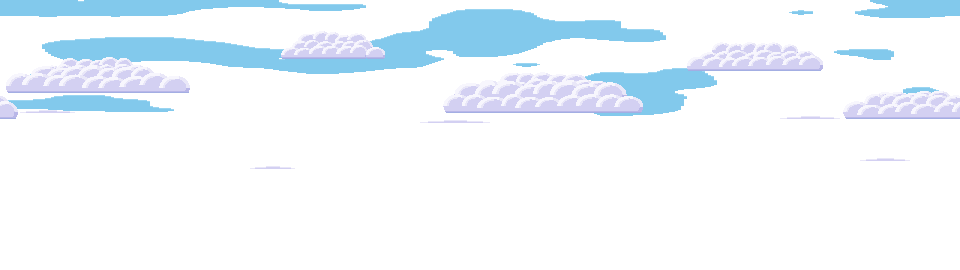
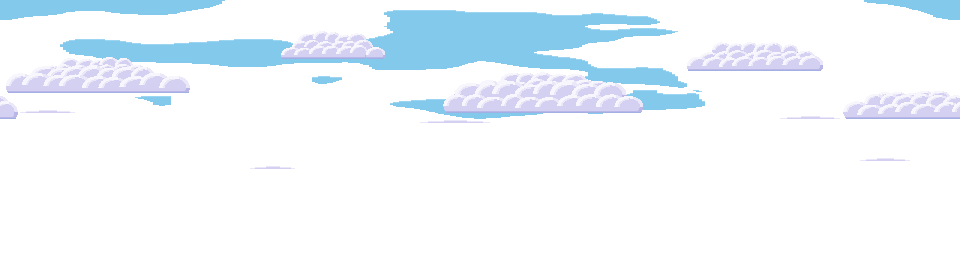
Fondos de los 4 niveles exteriores y componente ParallaxBackground
- public/assets/backgrounds/{street,park,market,construction} + README.txt
  (street actualizado: sky con sol, clouds, far y mid nuevos).
- El parallax sale de GameScene a src/systems/ParallaxBackground.js, con el
  mismo comportamiento; recibe el nombre de la carpeta del fondo.
- Campo background en los datos de sala (testRoom: street).
- F2 (debug) cambia el fondo en ciclo; el overlay de F1 muestra cual esta activo.

diff --git a/src/scenes/GameScene.js b/src/scenes/GameScene.js
@@ -1,5 +1,5 @@
 import * as Phaser from 'phaser';
-import { GAME_W, GAME_H, PLAYER, CAMERA, PARALLAX, DEPTH } from '../config/constants.js';
+import { GAME_W, GAME_H, PLAYER, CAMERA } from '../config/constants.js';
 import { CHARACTERS } from '../data/characters.js';
 import { ROOMS } from '../data/rooms/index.js';
 import { Player } from '../entities/Player.js';
@@ -12,6 +12,7 @@ import { DebugOverlay } from '../systems/DebugOverlay.js';
 import { PlayTimer } from '../systems/PlayTimer.js';
 import { RoomFlags } from '../systems/RoomFlags.js';
 import { buildRoom, tileToFeet, findGroundY } from '../systems/RoomBuilder.js';
+import { ParallaxBackground } from '../systems/ParallaxBackground.js';
 
 // Escena de juego genérica: arma la habitación indicada por roomId a partir de sus datos.
 export class GameScene extends Phaser.Scene {
@@ -30,8 +31,8 @@ export class GameScene extends Phaser.Scene {
     const room = this.room;
     this.controls = new Controls(this);
 
-    // --- Fondo con parallax ---
-    this.createParallax();
+    // --- Fondo con parallax (el de la sala; 'street' si no define uno) ---
+    this.background = new ParallaxBackground(this, room.background ?? 'street');
 
     // --- Habitación ---
     const { solids, width, height } = buildRoom(this, room);
@@ -91,82 +92,10 @@ export class GameScene extends Phaser.Scene {
 
     // --- Cámara ---
     this.setupCamera(width, height);
-    this.anchorParallax(room);
+    this.background.anchor(findGroundY(room));
 
     // --- Debug (F1) ---
     this.debug = new DebugOverlay(this, this.player);
-  }
-
-  createParallax() {
-    // Cada capa es un TileSprite de ancho de pantalla y alto de su imagen, fijo a la cámara (scrollFactor 0).
-    // El "movimiento" no es del objeto sino de su textura: tilePositionX desplaza el patrón,
-    // y como la textura se repite, la capa nunca se acaba aunque la sala sea más ancha que la imagen.
-    this.parallaxLayers = [];
-    PARALLAX.layers.forEach((layer, i) => {
-      // Si el PNG no cargó (p. ej. clon sin la carpeta media/), omitimos la capa en vez de
-      // dibujar la textura de "missing" de Phaser.
-      if (!this.textures.exists(layer.key)) return;
-      // Alto = alto de la imagen: así el TileSprite nunca repite en vertical (tilePositionY queda en 0)
-      // y la posición vertical se maneja solo con su y.
-      const imageH = this.textures.get(layer.key).getSourceImage().height;
-      const ts = this.add
-        .tileSprite(0, 0, GAME_W, imageH, layer.key)
-        .setOrigin(0, 0)
-        .setScrollFactor(0)
-        .setDepth(DEPTH.background + i);
-      this.parallaxLayers.push({ ...layer, ts, lastGap: 0 });
-    });
-
-    // ¿Por qué no en update()? Phaser calcula el scroll de la cámara (follow + lerp) en
-    // camera.preRender, DESPUÉS de update. Leer scrollX en update daría el valor del frame anterior
-    // y el fondo iría un frame atrasado respecto al mundo. FOLLOW_UPDATE se emite justo tras
-    // calcular el scroll y antes de dibujar, así que fondo y mundo usan el mismo valor.
-    const cam = this.cameras.main;
-    cam.on(Phaser.Cameras.Scene2D.Events.FOLLOW_UPDATE, this.updateParallax, this);
-    // La cámara principal se reutiliza entre reinicios de la escena: quitamos el listener al salir
-    // para no acumular uno por cada muerte.
-    this.events.once(Phaser.Scenes.Events.SHUTDOWN, () => {
-      cam.off(Phaser.Cameras.Scene2D.Events.FOLLOW_UPDATE, this.updateParallax, this);
-    });
-  }
-
-  // Referencia vertical del parallax, calculada con la geometría real de la sala (llamar tras setupCamera).
-  anchorParallax(room) {
-    const cam = this.cameras.main;
-    // scrollY máximo = cámara lo más abajo posible dentro de sus bounds.
-    this.parallaxMaxScrollY = cam.getBounds().bottom - cam.height;
-    // En esa posición, el suelo se ve en pantalla en groundY - maxScrollY. Queremos que la fila
-    // groundLine de la imagen caiga ahí, así que el borde superior de la capa va groundLine px más arriba.
-    // Ej. sala de prueba: suelo 384, maxScrollY 178 → suelo en pantalla 206 → capa en y = 206 - 256 = -50.
-    this.parallaxBaseY = findGroundY(room) - this.parallaxMaxScrollY - PARALLAX.groundLine;
-  }
-
-  updateParallax() {
-    const { scrollX, scrollY } = this.cameras.main;
-    // Δ = cuánto subió la cámara respecto a la referencia (≥ 0).
-    const rise = this.parallaxMaxScrollY - scrollY;
-    for (const layer of this.parallaxLayers) {
-      const { ts, factorX, factorY } = layer;
-      // Redondeo a pixel entero: con factores como 0.05 o 0.2 el desplazamiento sería fraccionario
-      // y el muestreo NEAREST alternaría entre dos filas/columnas de pixeles (temblor).
-      ts.tilePositionX = Math.round(scrollX * factorX);
-      // Vertical: movemos el TileSprite y no tilePositionY a propósito. tilePositionY repite la textura,
-      // así que si la capa bajara más allá de su borde aparecería la parte de arriba de la imagen debajo;
-      // moviendo y, lo que queda fuera de la imagen es simplemente transparente (y se nota si pasa).
-      ts.y = Math.round(this.parallaxBaseY + factorY * rise);
-
-      if (layer.checkBottom && this.debug?.enabled) this.checkParallaxBottom(layer);
-    }
-  }
-
-  // Debug: si el borde inferior de la capa queda por encima del de la pantalla, debajo se vería un hueco.
-  // Avisa solo cuando el faltante cambia (no en cada frame), y también cuando se cierra.
-  checkParallaxBottom(layer) {
-    const gap = Math.max(0, GAME_H - (layer.ts.y + layer.ts.height));
-    if (gap === layer.lastGap) return;
-    if (gap > 0) console.warn(`[Parallax] ${layer.key}: el borde inferior queda ${gap} px por encima de la pantalla`);
-    else console.info(`[Parallax] ${layer.key}: borde inferior cubierto otra vez`);
-    layer.lastGap = gap;
   }
 
   setupCamera(roomW, roomH) {
@@ -207,6 +136,11 @@ export class GameScene extends Phaser.Scene {
     PlayTimer.tick(this.registry, delta);
 
     if (this.controls.justDown('debug')) this.debug.toggle();
+    // F2 (debug): siguiente fondo. No se guarda: al morir o reiniciar vuelve el de la sala.
+    if (this.controls.justDown('cycleBackground')) {
+      this.background.cycle();
+      console.info(`[Parallax] fondo: ${this.background.name}`);
+    }
 
     // --- Interacción (tecla abajo) ---
     // Una sola consulta por frame: si hay diálogo abierto, la tecla avanza; si no, interactúa con lo más cercano.

diff --git a/src/systems/ParallaxBackground.js b/src/systems/ParallaxBackground.js
@@ -1,0 +1,126 @@
+import * as Phaser from 'phaser';
+import { GAME_W, GAME_H, PARALLAX, BACKGROUNDS, DEPTH } from '../config/constants.js';
+
+// Key de textura de una capa de un fondo, p. ej. bgKey('park', 'far') → 'bg-park-far'.
+// PreloadScene carga con estas keys y este componente las usa: es el único "contrato" entre ambos.
+export const bgKey = (background, layerId) => `bg-${background}-${layerId}`;
+
+// Fondo con parallax de varias capas, anclado al suelo de la sala.
+//
+// Uso:
+//   const bg = new ParallaxBackground(scene, 'street');
+//   ...configurar la cámara (bounds + startFollow)...
+//   bg.anchor(groundY);         // groundY = superficie del suelo de la sala, px de mundo
+//   bg.setBackground('park');   // cambia de fondo en caliente
+//
+// Cada capa es un TileSprite de ancho de pantalla y alto de su imagen, fijo a la cámara (scrollFactor 0):
+//   - Horizontal: se desplaza la textura (tilePositionX = scrollX · factorX). Como la textura se repite,
+//     la capa nunca se acaba aunque la sala sea más ancha que la imagen.
+//   - Vertical: se mueve la y del TileSprite (no tilePositionY, ver update()). Con la cámara lo más
+//     abajo posible, la fila groundLine de la imagen coincide con el suelo; si la cámara sube Δ px,
+//     la capa baja factorY · Δ px en pantalla.
+export class ParallaxBackground {
+  constructor(scene, background) {
+    this.scene = scene;
+    this.cam = scene.cameras.main;
+    this.layers = [];
+    // Hasta que se llame anchor() usamos una referencia neutra (capas pegadas arriba de la pantalla).
+    this.maxScrollY = 0;
+    this.baseY = 0;
+
+    this.setBackground(background);
+
+    // ¿Por qué no en update()? Phaser calcula el scroll de la cámara (follow + lerp) en
+    // camera.preRender, DESPUÉS de update. Leer scrollX en update daría el valor del frame anterior
+    // y el fondo iría un frame atrasado respecto al mundo. FOLLOW_UPDATE se emite justo tras
+    // calcular el scroll y antes de dibujar, así que fondo y mundo usan el mismo valor.
+    this.cam.on(Phaser.Cameras.Scene2D.Events.FOLLOW_UPDATE, this.update, this);
+    // La cámara principal se reutiliza entre reinicios de la escena: quitamos el listener al salir
+    // para no acumular uno por cada muerte.
+    scene.events.once(Phaser.Scenes.Events.SHUTDOWN, this.destroy, this);
+  }
+
+  // Crea (o reemplaza) las capas del fondo indicado. Si el nombre no existe, avisa y usa el primero.
+  setBackground(background) {
+    if (!BACKGROUNDS.includes(background)) {
+      console.warn(`[Parallax] fondo desconocido "${background}"; se usa "${BACKGROUNDS[0]}"`);
+      background = BACKGROUNDS[0];
+    }
+    this.name = background;
+
+    this.layers.forEach((l) => l.ts.destroy());
+    this.layers = [];
+
+    PARALLAX.layers.forEach((layer, i) => {
+      const key = bgKey(background, layer.id);
+      // Si el PNG no cargó, omitimos la capa en vez de dibujar la textura de "missing" de Phaser.
+      if (!this.scene.textures.exists(key)) return;
+      // Alto = alto de la imagen: así el TileSprite nunca repite en vertical (tilePositionY queda en 0)
+      // y la posición vertical se maneja solo con su y.
+      const imageH = this.scene.textures.get(key).getSourceImage().height;
+      const ts = this.scene.add
+        .tileSprite(0, 0, GAME_W, imageH, key)
+        .setOrigin(0, 0)
+        .setScrollFactor(0)
+        .setDepth(DEPTH.background + i);
+      this.layers.push({ ...layer, key, ts, lastGap: 0 });
+    });
+
+    // Posicionamos ya con el scroll actual, para que el fondo nuevo no se vea un frame mal ubicado.
+    this.update();
+    return this;
+  }
+
+  // Siguiente fondo de la lista, en ciclo (para la tecla de debug F2).
+  cycle() {
+    const i = BACKGROUNDS.indexOf(this.name);
+    return this.setBackground(BACKGROUNDS[(i + 1) % BACKGROUNDS.length]);
+  }
+
+  // Referencia vertical, calculada con la geometría real de la sala. Llamar después de setBounds de la cámara.
+  anchor(groundY) {
+    // scrollY máximo = cámara lo más abajo posible dentro de sus bounds.
+    this.maxScrollY = this.cam.getBounds().bottom - this.cam.height;
+    // En esa posición, el suelo se ve en pantalla en groundY - maxScrollY. Queremos que la fila
+    // groundLine de la imagen caiga ahí, así que el borde superior de la capa va groundLine px más arriba.
+    // Ej. sala de prueba: suelo 384, maxScrollY 178 → suelo en pantalla 206 → capa en y = 206 - 256 = -50.
+    this.baseY = groundY - this.maxScrollY - PARALLAX.groundLine;
+    this.update();
+    return this;
+  }
+
+  update() {
+    const { scrollX, scrollY } = this.cam;
+    // Δ = cuánto subió la cámara respecto a la referencia (≥ 0).
+    const rise = this.maxScrollY - scrollY;
+    const debug = !!this.scene.registry.get('debug');
+    for (const layer of this.layers) {
+      const { ts, factorX, factorY } = layer;
+      // Redondeo a pixel entero: con factores como 0.05 o 0.2 el desplazamiento sería fraccionario
+      // y el muestreo NEAREST alternaría entre dos filas/columnas de pixeles (temblor).
+      ts.tilePositionX = Math.round(scrollX * factorX);
+      // Vertical: movemos el TileSprite y no tilePositionY a propósito. tilePositionY repite la textura,
+      // así que si la capa bajara más allá de su borde aparecería la parte de arriba de la imagen debajo;
+      // moviendo y, lo que queda fuera de la imagen es simplemente transparente (y se nota si pasa).
+      ts.y = Math.round(this.baseY + factorY * rise);
+
+      if (layer.checkBottom && debug) this.checkBottom(layer);
+    }
+  }
+
+  // Debug: si el borde inferior de la capa queda por encima del de la pantalla, debajo se vería un hueco.
+  // Avisa solo cuando el faltante cambia (no en cada frame), y también cuando se cierra.
+  checkBottom(layer) {
+    const gap = Math.max(0, GAME_H - (layer.ts.y + layer.ts.height));
+    if (gap === layer.lastGap) return;
+    if (gap > 0) console.warn(`[Parallax] ${layer.key}: el borde inferior queda ${gap} px por encima de la pantalla`);
+    else console.info(`[Parallax] ${layer.key}: borde inferior cubierto otra vez`);
+    layer.lastGap = gap;
+  }
+
+  destroy() {
+    this.cam.off(Phaser.Cameras.Scene2D.Events.FOLLOW_UPDATE, this.update, this);
+    this.layers.forEach((l) => l.ts.destroy());
+    this.layers = [];
+  }
+}

diff --git a/src/config/constants.js b/src/config/constants.js
@@ -51,17 +51,21 @@ export const CAMERA = {
 //   Vertical (factorY): anclado al suelo. Con la cámara lo más abajo posible, la fila groundLine de cada
 //     imagen coincide en pantalla con la superficie del suelo; si la cámara sube Δ px, la capa baja
 //     factorY · Δ px en pantalla (el suelo baja Δ, así que la capa "se queda atrás" como algo lejano).
+// Cada fondo es una carpeta en public/assets/backgrounds/<nombre>/ con las mismas 4 capas (ver README.txt
+// ahí). Las salas eligen el suyo con el campo `background`; los componentes usan ParallaxBackground.
+export const BACKGROUNDS = ['street', 'park', 'market', 'construction'];
+
 export const PARALLAX = {
-  basePath: 'assets/backgrounds/street/', // relativa: Vite sirve public/ en la raíz y la copia a dist/
+  basePath: 'assets/backgrounds/', // relativa: Vite sirve public/ en la raíz y la copia a dist/
   groundLine: 256, // px, fila de las imágenes donde se apoya la base de las casas
   // checkBottom: en modo debug, avisar por consola si el borde inferior de la capa queda por encima del
   // de la pantalla. sky y clouds miden 270 y con el anclaje su borde queda siempre ~50 px arriba (avisarían
   // todo el tiempo), pero no dejan hueco porque far y mid, opacas abajo, las tapan. Las que importan son esas dos.
   layers: [
-    { key: 'bg-sky', file: 'layer_1_sky.png', factorX: 0, factorY: 0, checkBottom: false },
-    { key: 'bg-clouds', file: 'layer_2_clouds.png', factorX: 0.05, factorY: 0.05, checkBottom: false },
-    { key: 'bg-far', file: 'layer_3_far.png', factorX: 0.2, factorY: 0.2, checkBottom: true },
-    { key: 'bg-mid', file: 'layer_4_mid.png', factorX: 0.5, factorY: 0.5, checkBottom: true },
+    { id: 'sky', file: 'layer_1_sky.png', factorX: 0, factorY: 0, checkBottom: false },
+    { id: 'clouds', file: 'layer_2_clouds.png', factorX: 0.05, factorY: 0.05, checkBottom: false },
+    { id: 'far', file: 'layer_3_far.png', factorX: 0.2, factorY: 0.2, checkBottom: true },
+    { id: 'mid', file: 'layer_4_mid.png', factorX: 0.5, factorY: 0.5, checkBottom: true },
   ],
 };
 
@@ -77,6 +81,7 @@ export const CONTROLS = {
   interact: ['S', 'DOWN'], // "abajo": como entrar/revisar, típico de plataformeros
   confirm: ['ENTER'],
   debug: ['F1'],
+  cycleBackground: ['F2'], // debug: cambia el fondo de la sala entre los de BACKGROUNDS
 };
 
 // --- Profundidades de dibujo (mayor = encima) ---

diff --git a/src/scenes/PreloadScene.js b/src/scenes/PreloadScene.js
@@ -1,5 +1,6 @@
 import * as Phaser from 'phaser';
-import { TILE, PLAYER, COLORS, PARALLAX } from '../config/constants.js';
+import { TILE, PLAYER, COLORS, PARALLAX, BACKGROUNDS } from '../config/constants.js';
+import { bgKey } from '../systems/ParallaxBackground.js';
 import { CHARACTERS } from '../data/characters.js';
 
 // Carga de assets. Los fondos se cargan desde archivo; el resto del greybox se genera por código.
@@ -16,8 +17,11 @@ export class PreloadScene extends Phaser.Scene {
     // Fondo con parallax (public/assets/backgrounds/). Si algún PNG falla al cargar avisamos y seguimos:
     // GameScene omite las capas que falten en vez de dibujar la textura de "missing".
     this.load.on('loaderror', (file) => console.warn(`[Preload] no se pudo cargar ${file.key} (${file.url})`));
-    for (const layer of PARALLAX.layers) {
-      this.load.image(layer.key, PARALLAX.basePath + layer.file);
+    // Cargamos todos los fondos (16 PNG chicos): así cambiar de sala o de fondo con F2 no espera carga.
+    for (const bg of BACKGROUNDS) {
+      for (const layer of PARALLAX.layers) {
+        this.load.image(bgKey(bg, layer.id), `${PARALLAX.basePath}${bg}/${layer.file}`);
+      }
     }
   }
 

diff --git a/src/systems/DebugOverlay.js b/src/systems/DebugOverlay.js
@@ -61,6 +61,7 @@ export class DebugOverlay {
         `pos ${b.x.toFixed(1)}, ${b.y.toFixed(1)}`,
         `vel ${b.velocity.x.toFixed(0)}, ${b.velocity.y.toFixed(0)}`,
         `gnd ${p.grounded ? 'sí' : 'no'}`,
+        `bg  ${this.scene.background?.name ?? '-'} (F2)`,
       ].join('\n'),
     );
   }

diff --git a/src/data/rooms/testRoom.js b/src/data/rooms/testRoom.js
@@ -11,6 +11,7 @@
 
 export const testRoom = {
   id: 'testRoom',
+  background: 'street', // carpeta en public/assets/backgrounds/ (ver BACKGROUNDS en constants.js)
 
   layout: [
     '############################################################', // 0  techo

diff --git a/README.md b/README.md
@@ -24,6 +24,7 @@ npm run preview   # sirve el build para probarlo
 | Interactuar / avanzar diálogo | S / ↓ |
 | Elegir personaje | ← / → y Enter |
 | Modo debug (hitboxes + timer) | F1 |
+| Cambiar el fondo de la sala (debug) | F2 |
 
 ## Stack
 
@@ -52,13 +53,14 @@ src/
 ├── systems/
 │   ├── Controls.js             Agrupa teclas por acción (jump = Espacio/W/↑)
 │   ├── RoomBuilder.js          Convierte el layout de texto en tiles + colisiones fusionadas
+│   ├── ParallaxBackground.js   Fondo de 4 capas con parallax anclado al suelo (elige carpeta por nombre)
 │   ├── DialogBox.js            Caja de diálogo inferior que avanza con S/↓
 │   ├── RoomFlags.js            Flags por habitación (p. ej. "technicianCalled")
 │   ├── PlayTimer.js            Timer global de juego
 │   └── DebugOverlay.js         Panel F1: timer, posición, velocidad + hitboxes
 └── scenes/
     ├── BootScene.js            Arranque
-    ├── PreloadScene.js         Carga de assets (hoy genera las texturas placeholder)
+    ├── PreloadScene.js         Carga los fondos y genera las texturas placeholder
     ├── CharacterSelectScene.js Selección de personaje (guarda la elección en el registry)
     ├── GameScene.js            Arma y corre una habitación a partir de sus datos
     └── GameOverScene.js        "¡CORRIENTAZO!" + tip; una tecla te devuelve al inicio de la sala
